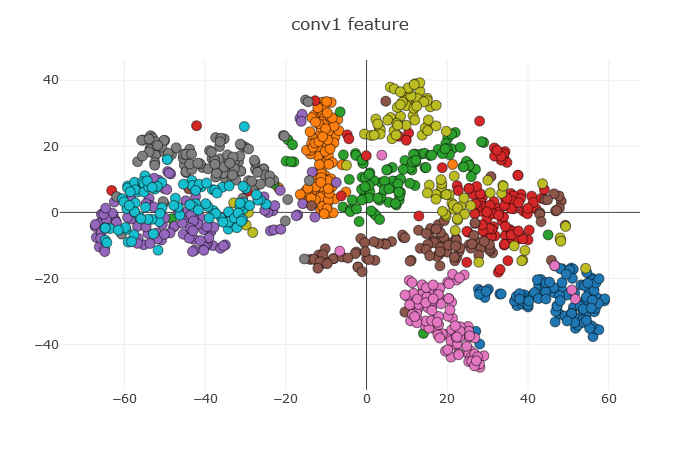
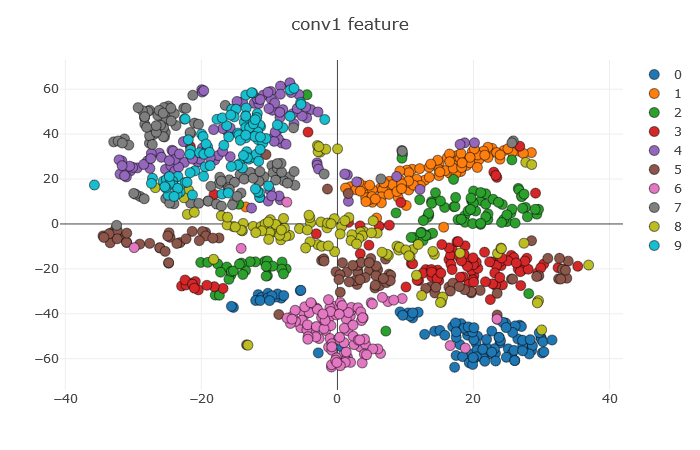
push

diff --git a/Assignment2/report/hw2-3/main.py b/Assignment2/report/hw2-3/main.py
@@ -134,9 +134,9 @@ def FeatureVisualization(ckpt_root):
         _, map1, map2 = lenet5(I)
         map1 = map1.view(map1.size()[0], -1).detach().numpy()
         map2 = map2.view(map2.size()[0], -1).detach().numpy()
-        
-        vis.vis.scatter(TSNE().fit_transform(map1), labels, win='conv1feature', opts={'title': 'conv1 feature'})
-        vis.vis.scatter(TSNE().fit_transform(map2), labels, win='conv2feature', opts={'title': 'conv2 feature'})
+        legend = ['0', '1', '2', '3', '4', '5', '6', '7', '8', '9']
+        vis.vis.scatter(TSNE().fit_transform(map1), labels, win='conv1feature', opts={'title': 'conv1 feature', 'legend':legend})
+        vis.vis.scatter(TSNE().fit_transform(map2), labels, win='conv2feature', opts={'title': 'conv2 feature', 'legend':legend})
     
     return
 
